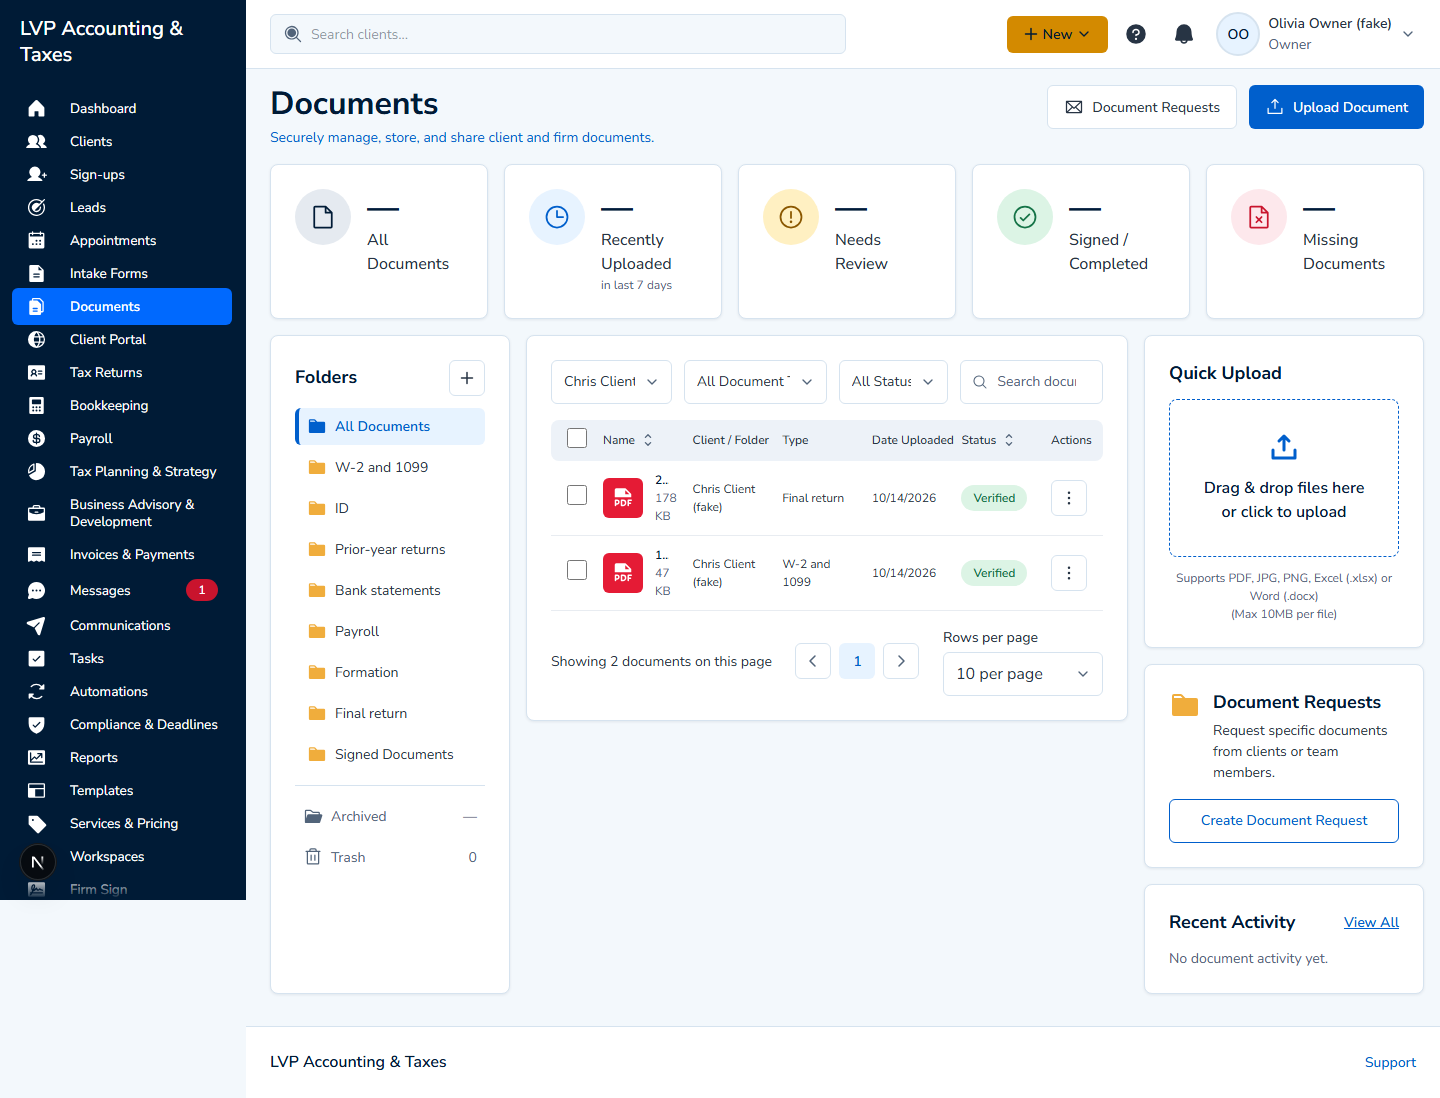
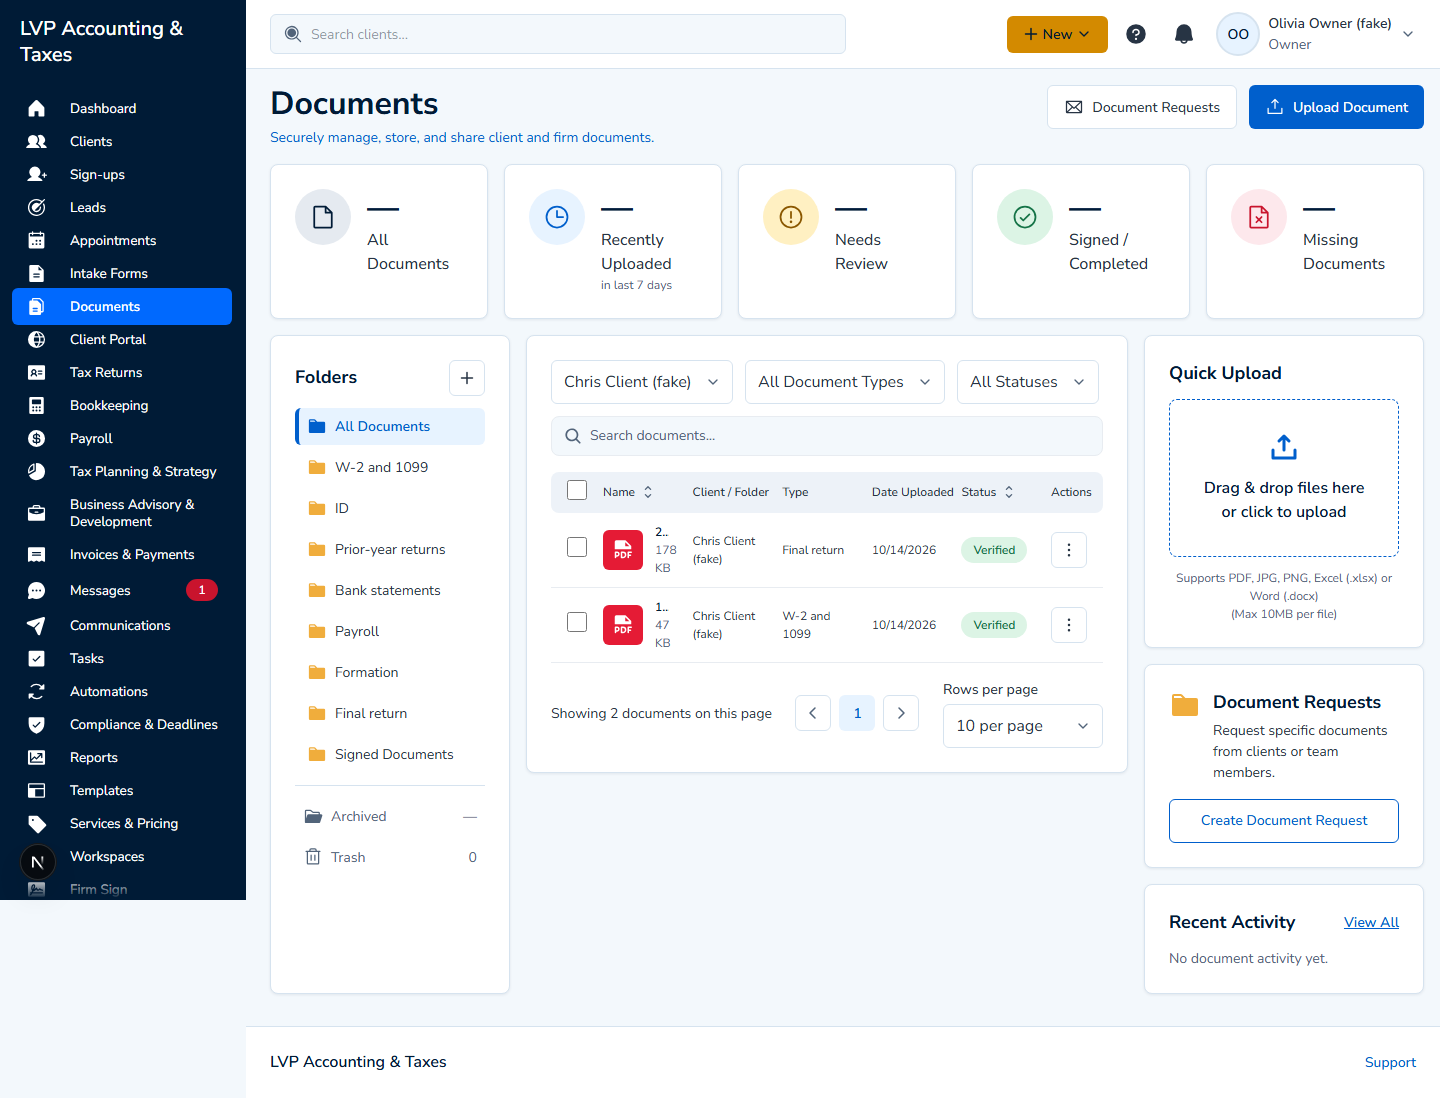
fix: use the kit's FilterBar, Select and SearchField on documents filters (R34)
hideLabel landed on Select and Input (#498), along with FilterBar and
SearchField. Replaces the local CompactSelect and the hand-rolled
search input with FilterBar > Select (hideLabel) x3 + SearchField,
same accessible names as before. No packages/ui changes.

diff --git a/apps/web/src/app/firm/(workspace)/documents/_components/documents-filters-bar.tsx b/apps/web/src/app/firm/(workspace)/documents/_components/documents-filters-bar.tsx
@@ -1,6 +1,5 @@
 import type { ClientListItem, DocumentCategory, FirmDocument } from '@firmivra/types';
-import { MagnifyingGlass } from '@phosphor-icons/react';
-import type { SelectHTMLAttributes } from 'react';
+import { FilterBar, SearchField, Select } from '@firmivra/ui';
 
 const STATUS_OPTIONS: { value: '' | FirmDocument['scanStatus']; label: string }[] = [
   { value: '', label: 'All Statuses' },
@@ -9,51 +8,6 @@ const STATUS_OPTIONS: { value: '' | FirmDocument['scanStatus']; label: string }[
   { value: 'INFECTED', label: 'Blocked' },
   { value: 'FAILED', label: 'Scan failed' },
 ];
-
-/**
- * The design's filter row has no visible labels, but @firmivra/ui's Select always renders one
- * (packages/ui/src/fields.tsx) with no prop to hide it — same for Input. Reported to Rasel rather
- * than editing packages/ui: both are missing a `hideLabel` (visually-hidden) prop. Until then, a
- * local compact variant with the same classes as Select (copied, since they aren't exported) and
- * an aria-label instead.
- */
-function CompactSelect({
-  ariaLabel,
-  options,
-  className = '',
-  ...props
-}: { ariaLabel: string; options: { value: string; label: string }[] } & Omit<
-  SelectHTMLAttributes<HTMLSelectElement>,
-  'aria-label'
->) {
-  return (
-    <div className={`relative min-w-0 ${className}`}>
-      <select
-        aria-label={ariaLabel}
-        className="min-w-0 w-full max-w-full appearance-none rounded-control border border-border bg-surface py-2 pl-3 pr-9 text-sm text-text focus:outline-2 focus:outline-accent-500"
-        {...props}
-      >
-        {options.map((o) => (
-          <option key={o.value} value={o.value}>
-            {o.label}
-          </option>
-        ))}
-      </select>
-      <svg
-        aria-hidden="true"
-        viewBox="0 0 24 24"
-        fill="none"
-        stroke="currentColor"
-        strokeWidth="2"
-        strokeLinecap="round"
-        strokeLinejoin="round"
-        className="pointer-events-none absolute top-1/2 right-3 size-4 -translate-y-1/2 text-muted"
-      >
-        <path d="m6 9 6 6 6-6" />
-      </svg>
-    </div>
-  );
-}
 
 export function DocumentsFiltersBar({
   clients,
@@ -79,53 +33,52 @@ export function DocumentsFiltersBar({
   onSearchChange: (value: string) => void;
 }) {
   return (
-    <div className="flex flex-col gap-3 sm:flex-row" data-testid="documents-filters">
-      <CompactSelect
-        ariaLabel="Client"
-        data-testid="filter-client"
-        className="sm:flex-[1.1]"
-        value={clientId}
-        onChange={(event) => onClientChange(event.target.value)}
-        options={[
-          { value: '', label: 'All Clients' },
-          ...clients.map((c) => ({ value: c.id, label: c.displayName })),
-        ]}
-      />
-      <CompactSelect
-        ariaLabel="Document type"
-        data-testid="filter-type"
-        className="sm:flex-[1.3]"
-        value={categoryId}
-        onChange={(event) => onCategoryChange(event.target.value)}
-        options={[
-          { value: '', label: 'All Document Types' },
-          ...categories.map((c) => ({ value: c.id, label: c.name })),
-        ]}
-      />
-      <CompactSelect
-        ariaLabel="Status"
-        data-testid="filter-status"
-        className="sm:flex-1"
-        value={status}
-        onChange={(event) => onStatusChange(event.target.value as '' | FirmDocument['scanStatus'])}
-        options={STATUS_OPTIONS}
-      />
-      <div className="relative min-w-0 sm:flex-[1.3]">
-        <MagnifyingGlass
-          aria-hidden="true"
-          className="pointer-events-none absolute top-1/2 left-3 size-4 -translate-y-1/2 text-muted"
+    <div data-testid="documents-filters">
+      <FilterBar>
+        <Select
+          label="Client"
+          hideLabel
+          data-testid="filter-client"
+          className="w-44"
+          value={clientId}
+          onChange={(event) => onClientChange(event.target.value)}
+          options={[
+            { value: '', label: 'All Clients' },
+            ...clients.map((c) => ({ value: c.id, label: c.displayName })),
+          ]}
         />
-        <input
-          type="search"
+        <Select
+          label="Document type"
+          hideLabel
+          data-testid="filter-type"
+          className="w-56"
+          value={categoryId}
+          onChange={(event) => onCategoryChange(event.target.value)}
+          options={[
+            { value: '', label: 'All Document Types' },
+            ...categories.map((c) => ({ value: c.id, label: c.name })),
+          ]}
+        />
+        <Select
+          label="Status"
+          hideLabel
+          data-testid="filter-status"
+          className="w-40"
+          value={status}
+          onChange={(event) =>
+            onStatusChange(event.target.value as '' | FirmDocument['scanStatus'])
+          }
+          options={STATUS_OPTIONS}
+        />
+        <SearchField
+          label="Search documents"
+          placeholder="Search documents..."
           maxLength={100}
           value={search}
-          placeholder="Search documents..."
-          aria-label="Search documents"
           data-testid="filter-search"
           onChange={(event) => onSearchChange(event.target.value)}
-          className="w-full rounded-control border border-border bg-surface py-2 pr-3 pl-9 text-sm text-text placeholder:text-muted focus:outline-2 focus:outline-accent-500"
         />
-      </div>
+      </FilterBar>
     </div>
   );
 }
